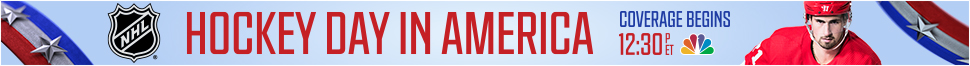
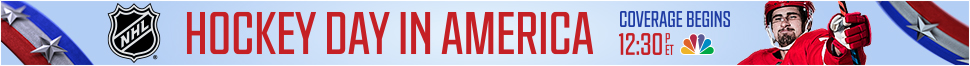
HDIA

Changed region(s): [[0.7423, 0.0, 0.9278, 1.0]]

diff --git a/WNH/HDIA/index.html b/WNH/HDIA/index.html
@@ -43,16 +43,8 @@
 					<p><object width="320" height="50" data="html_css/320x50.jpg"></object> <br /><br />
 					</p>
 
-					<h4>320x50 (version 2)</h4>
-					<p><object width="320" height="50" data="html_css/320x50_2.jpg"></object> <br /><br />
-					</p>
-
 					<h4>300x50</h4>
 					<p><object width="300" height="50" data="html_css/300x50.jpg"></object> <br /><br />
-					</p>
-
-					<h4>300x50 (version 2)</h4>
-					<p><object width="300" height="50" data="html_css/300x50_2.jpg"></object> <br /><br />
 					</p>
 
 					<h4>190x80</h4>
@@ -61,10 +53,6 @@
 
                     <h4>970x66 (Larkin version 1)</h4>
                     <p><object width="970" height="66" data="html_css/970x66.jpg"></object> <br /><br />
-                    </p>
-
-                    <h4>970x66 (Larkin version 2)</h4>
-                    <p><object width="970" height="66" data="html_css/970x66_2.jpg"></object> <br /><br />
                     </p>
 
 
